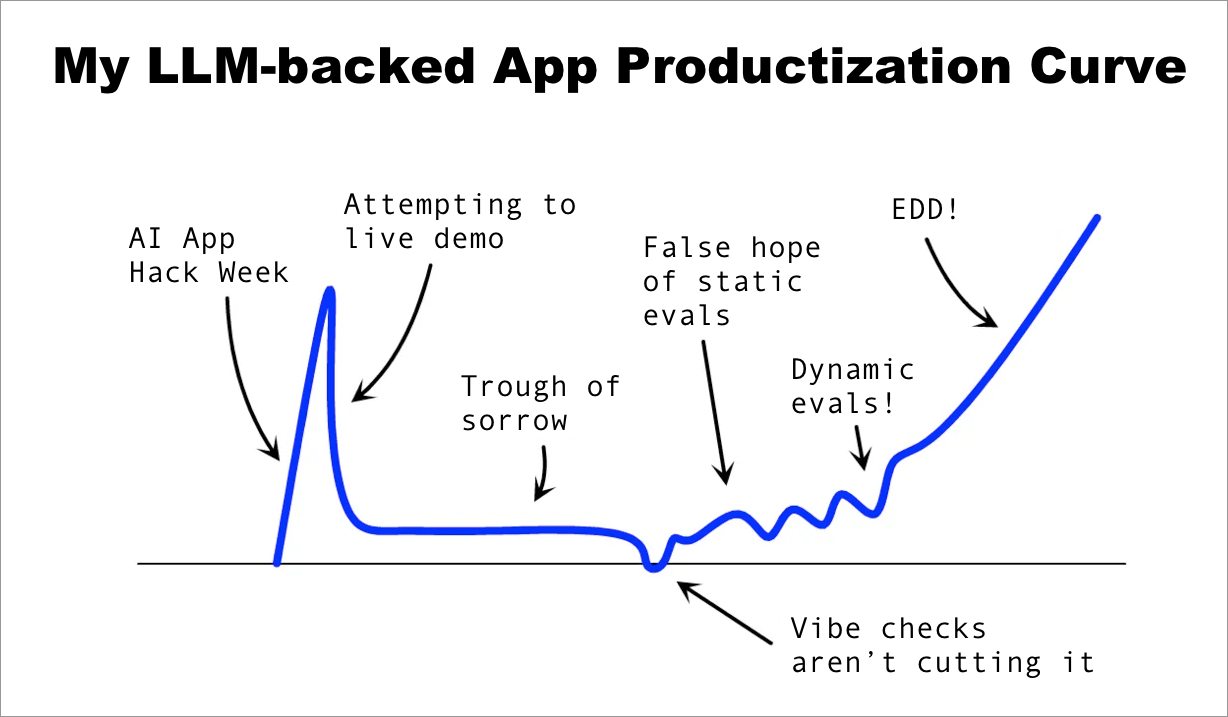
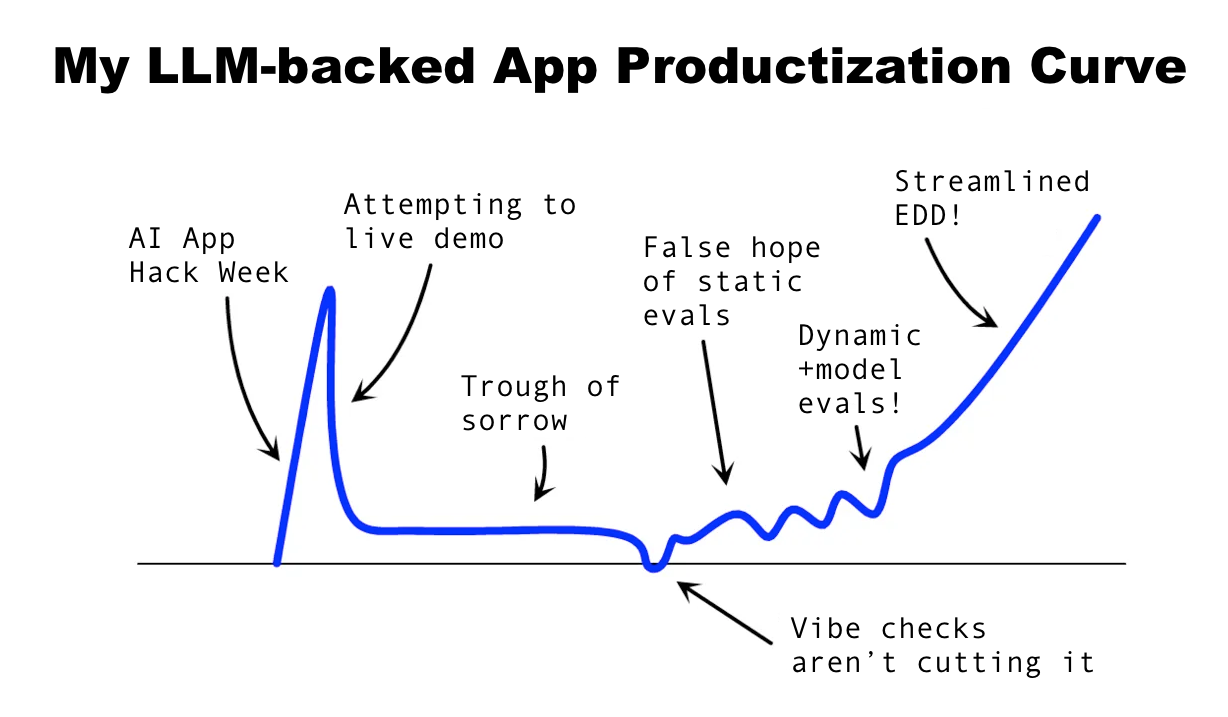
More content

diff --git a/_posts/2023-10-04-2023-eval-rag-apps.md b/_posts/2023-10-04-2023-eval-rag-apps.md
@@ -10,9 +10,9 @@ My first weeks working with GPT-4 were _magical_. I was doing things that I prev
 
 My app could perform a few mic-drop tasks, but getting it to reliably reproduce those results was a frustrating, non-deterministic nightmare. A public release was perpetually one week away.
 
-Today, I'm emerging from my AI trough of sorrow thanks to a streamlined [Eval Driven Development (EDD)](https://eugeneyan.com/writing/llm-patterns/#how-to-apply-evals) flow. This process has given me a clear understanding of where my LLM-backed app stands across a broad set of tasks, guiding which levers I pull (and how far) to improve accuracy. My EDD flow is less brittle than a traditional test suite, is quick to run, accurately reflects how a human perceives successes and failures, and adapts to changing environments.
+Today, I'm emerging from my AI trough of sorrow thanks to [Eval Driven Development (EDD)](https://eugeneyan.com/writing/llm-patterns/#how-to-apply-evals), a process that uses an evaluation suite to guide which levers (prompt, context, model params) I pull (and how far) to improve accuracy.
 
-In this post, I'll share how I've implemented a streamlined version of EDD. However, before we dive in, we need to talk about the most common reason LLM-backed apps fail to perform consistently. _This_ is where I've focused my evaluation efforts to maximize the reward / effort ratio.
+However, there's a catch. It's a _streamlined_ EDD flow: quick (and cheap) to run after minor code changes, it trades rigor for speed and continuous improvement. In this post, I share how I've implemented an EDD system to evaluate LLM-backed apps that I ❤.
 
 ## Table of Contents
 
@@ -88,7 +88,7 @@ Now, let's see why focusing on context can help us evaluate our LLM-backed app.
 My first attempt at automating the evaluation of my LLM-backed app tested the entire question and answer flow, providing static ground truth natural language answers to questions. While testing the entire flow gives a complete picture of how the app performs, it encourages anti-patterns:
 
 1. I run the test suite less frequently and add fewer tests as its slow to run.
-2. I add fewer tests as its slow to human evaluate natural language responses.
+2. I add fewer tests as it's slow to human evaluate natural language responses.
 3. I add unrealistic questions and ground truths to get more consistent results as my environment the agent interacts with (AWS resources and monitoring data) is constantly changing and the correct answers change with it.
 
 ![wait_meme](/img/posts/rag_eval/wait_meme.jpg)
@@ -221,58 +221,24 @@ I repeat this process for each "works as-is" result. Hybrid and fully human-gene
 After adding reference functions, I run an evaluation. I can see that in the latest run, the agent incorrectly answered the question _"How many CloudWatch Log Groups do I have?"_:
 
 <a href ="/img/posts/rag_eval/incorrect.png" target="_blank"><img src="/img/posts/rag_eval/incorrect.png"></a>
-<div class="caption">This shows the evaluation result on a single question-answer pair. In this case, this did not pass evaluation.</div>
+<div class="caption">This shows the evaluation result on a single question-answer pair. In this case, the result did not pass evaluation.</div>
 
 
 ### LLM-based eval
 
-It's not possible to have a quick code change - eval feedback loop if you are relying on human evaluation. We need another approach that leverages LLM prompts to do the eval.
+It's not possible to have a quick code <-> eval feedback loop if you are relying on human evaluation. We need another approach that leverages LLM prompts to do the eval.
 
 #### Prompt 1: Answer from a reference function
 
 The first prompt is used to generate the ground truth answer from the referenced function we saved earlier. It looks like this:
 
-```
-You are given a question and function output(s). Return a final answer to the question based on the function output. BE SPECIFIC, sharing data to back up your answer when you can.
+<script src="https://gist.github.com/itsderek23/b74956714d8f3303c9e77de89e98a707.js"></script>
 
-Question:: %%QUESTION%%
-
-# Function Output(s)
-%%FUNCTION_OUTPUTS%%
-
-Begin!
-```
 #### Prompt 2: Evaluation Prompt
 
 The second prompt is my model-evaluation prompt. This prompt generates a confidence score, comparing the answer from the agent vs the response generated from the above prompt:
 
-```
-I'm comparing the output of two different systems. I need you to compare the two responses to the same question and see if they are functionally equivalent.
-
-It's ok if one response is more detailed than the other, as long as they are functionally equivalent.
-It's ok if when comparing floats (ie 10.5 or 12.4%), if the two numbers are within 30% of each other.
-
-Question: %%QUESTION%%
-
-# Response
-
-%%RESPONSE_TO_EVAL%%
-
-# Reference Response
-
-%%REFERENCE_RESPONSE%%
-
-# Response format
-
-Answer in the following format:
-
-{
-  "confidence": Return a confidence value btw 0.0-1.0 that the responses are functionally equivalent,
-  "why": "A single sentence explaining why you chose this confidence value"
-}
-
-Begin!
-```
+<script src="https://gist.github.com/itsderek23/8a1fde245a24889b68b521cdf3e0f09a.js"></script>
 
 ### Rinse and repeat
 
@@ -284,7 +250,9 @@ Once I'm getting acceptable accuracy on an evaluation dataset (ex: 80% or greate
 
 ## Conclusion
 
-I've dramatically increased the accuracy, capabilities, and reliability of my LLM-backed app by leveraging a more automated, streamlined form of Eval Driven Development. My flavor of EDD leans on the LLM to generate the question dataset, uses human-evaluated reference functions to generate context, re-assembles ground truth answers via the LLM, and finally uses the LLM again to simulate human evaluation.
+Humans be-damned, I've gone all-in on the LLM.
+
+I've dramatically increased the accuracy, capabilities, and reliability of my LLM-backed app by leveraging a more automated, streamlined form of Eval Driven Development (EDD). My flavor of EDD leans on the LLM to generate the question dataset, uses human-evaluated reference functions to generate context, re-assembles ground truth answers via the LLM, and finally uses the LLM again to simulate human evaluation.
 
 For my app, the resulting confidence scores of this approach are typically within 5% of human-eval scoring at a fraction of the time spent.
 
